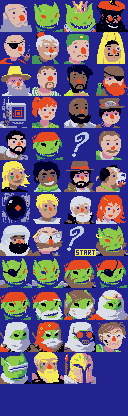
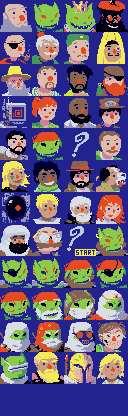
add sylph variation of castaway event

Changed region(s): [[0.75, 0.8438, 0.9688, 0.9375], [0.3125, 0.875, 0.3438, 0.9062]]

diff --git a/source/data/character_art.h b/source/data/character_art.h
@@ -9,7 +9,7 @@
 //	+ 832 tiles Metatiled by 4x4 not compressed
 //	Total size: 32 + 26624 = 26656
 //
-//	Time-stamp: 2025-08-17, 13:11:44
+//	Time-stamp: 2025-12-03, 08:09:40
 //	Exported by Cearn's GBA Image Transmogrifier, v0.9.2
 //	( http://www.coranac.com/projects/#grit )
 //

diff --git a/source/skyland/scene/crewStatsScene.cpp b/source/skyland/scene/crewStatsScene.cpp
@@ -252,7 +252,7 @@ static constexpr u8 goblin_icons[] =
 
 
 
-static constexpr u8 sylph_icons[] = {21, 26, 46, 47};
+static constexpr u8 sylph_icons[] = {21, 26, 46, 47, 48};
 
 
 
